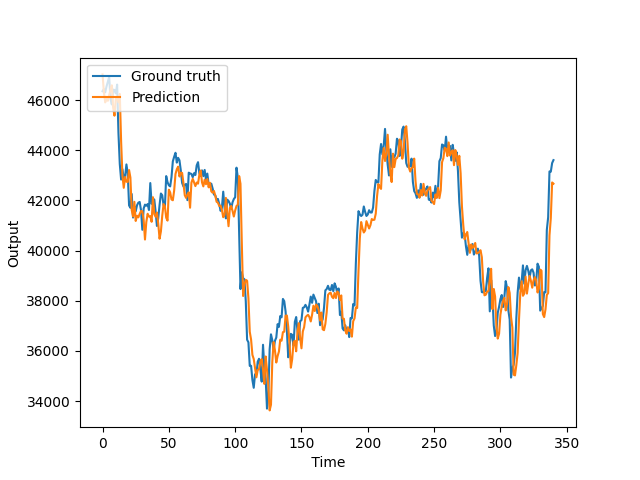
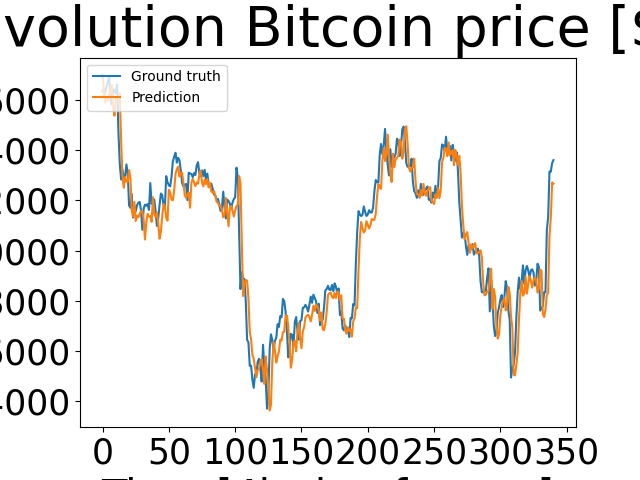
Images

diff --git a/streamlit.py b/streamlit.py
@@ -5,7 +5,7 @@ def streamlit_template():
     st.set_page_config(layout="wide")
     st.sidebar.markdown("<h1 style=' color: #948888;'>SECTIONS</h1>",
                         unsafe_allow_html=True)
-    home = st.sidebar.checkbox("HOMEPAGE")
+    home = st.sidebar.checkbox("HOMEPAGE", value=True)
     if home:
         st.title("PABLO VILLEGAS MARTÍN")
         '''
@@ -61,15 +61,23 @@ def streamlit_template():
 
         images_links = {
             'Baseline': [(
-                         'https://github.com/pvillegasmartin/cryptocurrencies/blob/main/Analysis/baseline-evolutions-return.png?raw=true',
-                         'Bitcoin evolution returns'),
-                         (
-                         'https://raw.githubusercontent.com/pvillegasmartin/cryptocurrencies/main/Analysis/baseline-return.PNG',
-                         'Bitcoin returns')],
-            'Ensemble principals': 'https://github.com/pvillegasmartin/cryptocurrencies/tree/main/Analysis',
-            'Price difference': 'https://github.com/pvillegasmartin/cryptocurrencies/tree/main/Analysis/Dif_price',
-            'Local points': 'https://github.com/pvillegasmartin/cryptocurrencies/tree/main/Analysis/MAXMIN%20Locals',
-            'Sentiment': 'https://github.com/pvillegasmartin/cryptocurrencies/tree/main/Analysis/Sentiment'
+                'https://github.com/pvillegasmartin/cryptocurrencies/blob/main/Analysis/baseline-evolutions-return.png?raw=true',
+                'Bitcoin evolution returns')]
+                # ,(
+                # 'https://raw.githubusercontent.com/pvillegasmartin/cryptocurrencies/main/Analysis/baseline-return.PNG',
+                # 'Bitcoin returns')],
+            , 'Ensemble principals': [(
+                'https://github.com/pvillegasmartin/cryptocurrencies/blob/main/Analysis/baseline-evolutions-return.png?raw=true',
+                'Bitcoin evolution returns')]
+            , 'Price difference': [(
+                'https://github.com/pvillegasmartin/cryptocurrencies/blob/main/Analysis/baseline-evolutions-return.png?raw=true',
+                'Bitcoin evolution returns')]
+            , 'Local points': [(
+                'https://github.com/pvillegasmartin/cryptocurrencies/blob/main/Analysis/baseline-evolutions-return.png?raw=true',
+                'Bitcoin evolution returns')]
+            , 'Sentiment': [(
+                'https://github.com/pvillegasmartin/cryptocurrencies/blob/main/Analysis/baseline-evolutions-return.png?raw=true',
+                'Bitcoin evolution returns')]
         }
 
         text_strategies = {
@@ -98,7 +106,7 @@ def streamlit_template():
                     col1.image(images_links[analysis_type][0][0], caption=images_links[analysis_type][0][1])
                     col2.image(images_links[analysis_type][1][0], caption=images_links[analysis_type][1][1])
                 else:
-                    col1, col2, col3 = st.columns((1, 1, 1))
+                    col1, col2, col3 = st.columns((1, 8, 1))
                     col2.image(images_links[analysis_type][0][0], caption=images_links[analysis_type][0][1])
             except:
                 pass

diff --git a/Analysis/Price_forecast/DL/test.py b/Analysis/Price_forecast/DL/test.py
@@ -29,12 +29,16 @@ for i in range(max_range):
 
 df_pred = scaler.inverse_transform(df_test.iloc[train.n_steps+1:, :])[:, 0]
 df_ground = scaler.inverse_transform(df_test.iloc[train.n_steps+1:, :])[:, 1]
+plt.figure()
 plt.plot(df_ground, label="Ground truth")
 #plt.plot(df_pred, label="To predict")
 plt.plot(predictions, label="Prediction")
-plt.xlabel(" Time ")
-plt.ylabel("Output")
 plt.legend(loc="upper left")
+plt.title('Evolution Bitcoin price [$]', fontsize=40)
+plt.ylabel('Price [$]', fontsize=30)
+plt.xlabel('Time [4h timeframes]', fontsize=30)
+plt.xticks(fontsize=25)
+plt.yticks(fontsize=25)
 plt.show()
 #plt.savefig(f'Test_2022_{train.period}_out{train.output_shift}_inputsdim{train.input_dim}_ldim{train.layer_dim}_nsteps{train.n_steps}.png')
 #plt.clf()
